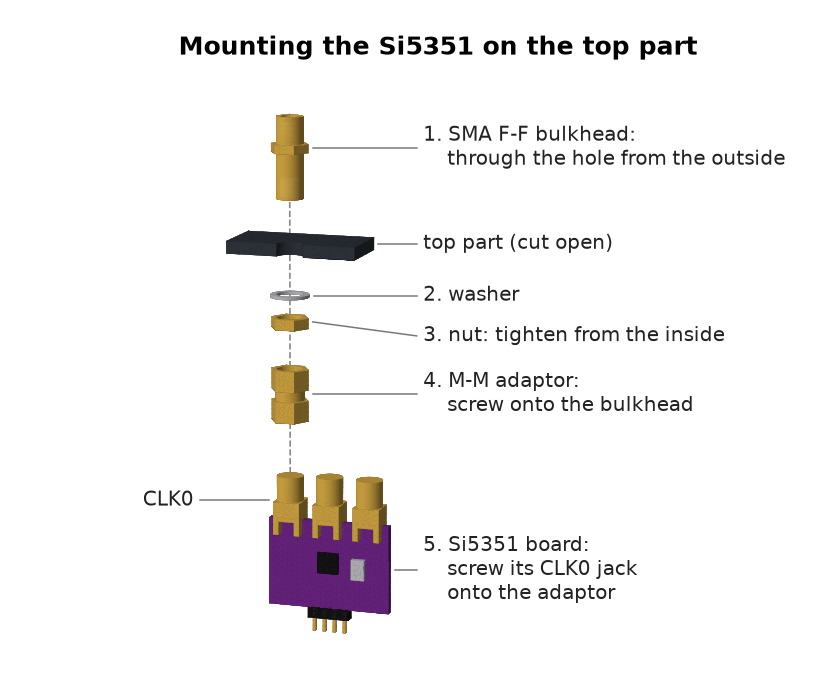
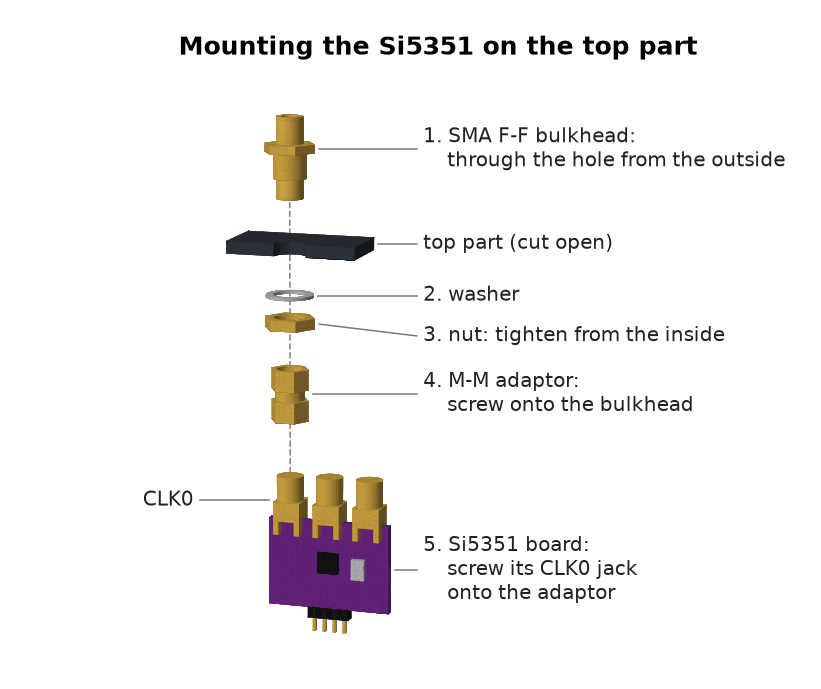
Case: D-shaped SMA hole with command-line options
- SMA bulkhead hole with two flats: 7.8 mm, 7.4 mm across the flats,
  plus 0.2 mm clearance (8.0 x 7.6 mm in the lid)
- --sma-d, --sma-flats, --sma-clear, --sma-angle and --only top to
  regenerate just the lid for another connector
- SMA mount view shows the thicker bulkhead body

diff --git a/case/qube_case.py b/case/qube_case.py
@@ -11,9 +11,14 @@ Generates the 3D-printable parts as STL files:
 
 Usage:
   pip install manifold3d numpy matplotlib
-  python3 qube_case.py            # write STLs
+  python3 qube_case.py            # write all STLs
   python3 qube_case.py --check    # also run a fit check against dummy boards
   python3 qube_case.py --preview  # also render preview PNGs to ../docs (incl. sma_mount.png)
+
+  # only the top part, for another SMA bulkhead connector (sizes in mm):
+  python3 qube_case.py --only top --sma-d 7.8 --sma-flats 7.4
+  python3 qube_case.py --only top --sma-d 6.35 --sma-flats 0     # round hole
+  python3 qube_case.py --help     # all options
 
 All dimensions are in mm. MEASURE YOUR BOARDS and adjust the parameters
 below before printing - board sizes differ between suppliers.
@@ -71,7 +76,12 @@ SMA_Y = S / 2           # the Si5351 stands parallel to the front wall, right be
 SI_SMA_PITCH = 10.0     # spacing of the 3 SMA connectors CLK0, CLK1, CLK2
 SI_CLK0_OFF = -SI_SMA_PITCH   # CLK0 position on the SMA edge, relative to the board centre (CLK0 at one end)
 SI_CHAIN = 26.0         # inner top surface -> Si5351 PCB edge (bulkhead + M-M adaptor + jack)
-SMA_HOLE_D = 6.6        # hole for the SMA F-F bulkhead (1/4"-36 thread = 6.35 mm)
+# SMA F-F bulkhead connector: measure the threaded part that goes through the top.
+# Many have two flat sides (a "D" or double-D shape) that stop them from turning.
+SMA_HOLE_D = 7.8        # diameter of the threaded part
+SMA_HOLE_FLATS = 7.4    # distance between the two flat sides, 0 = round, no flats
+SMA_HOLE_CLEAR = 0.2    # extra clearance on both sizes (printed holes come out a bit small)
+SMA_HOLE_ANGLE = 0.0    # rotation of the flats in degrees (0 = flats parallel to the front)
 
 # ---- OLED display GM009605v4 (SSD1306 0.96") -----------------------------
 D_W = 27.3              # PCB width
@@ -351,6 +361,16 @@ def bottom_part():
     return m - union(cuts)
 
 
+def sma_hole():
+    """Hole for the SMA bulkhead: round, or round with two flat sides."""
+    d = SMA_HOLE_D + SMA_HOLE_CLEAR
+    hole = Manifold.cylinder(WALL + 2, d / 2, d / 2, 96)
+    if SMA_HOLE_FLATS > 0:
+        f = SMA_HOLE_FLATS + SMA_HOLE_CLEAR
+        hole = hole ^ box(-d, -f / 2, -1, d, f / 2, WALL + 3)
+    return hole.rotate((0, 0, SMA_HOLE_ANGLE)).translate((SMA_X, SMA_Y, IN1 - 1))
+
+
 def top_part():
     top = shell() ^ box(-1, -1, SPLIT, S + 1, S + 1, S + 1)
     pocket = box(IN0 - TONGUE_T - FIT, IN0 - TONGUE_T - FIT, SPLIT - 1,
@@ -371,7 +391,7 @@ def top_part():
         fingers.append(box(x0, B_PCB_Y0 + 0.1, zj, x1, IN1 + 0.01, IN1 + 0.01))
     top = top + union(fingers)
 
-    cuts = [cyl_z(SMA_X, SMA_Y, IN1 - 1, WALL + 2, SMA_HOLE_D / 2)]
+    cuts = [sma_hole()]
     # pry notch on the right side, to open the cube with a coin / screwdriver
     cuts.append(box(S - (IN0 - TONGUE_T - FIT) - 0.01, S / 2 - 6, SPLIT - 0.01, S + 1, S / 2 + 6, SPLIT + 1.5))
     cuts.append(engrave_top("RF", 6.0, SMA_X, SMA_Y - 11))
@@ -495,24 +515,61 @@ def fit_check(bottom, top, caps):
     return ok
 
 
+def parse_args():
+    import argparse
+    ap = argparse.ArgumentParser(description="Generate the QubeRG case STLs.")
+    ap.add_argument("--only", action="append", choices=["bottom", "top", "buttons"],
+                    help="only write this part (can be repeated); default: all parts")
+    ap.add_argument("--check", action="store_true", help="run the fit check against dummy boards")
+    ap.add_argument("--preview", action="store_true", help="render the preview images to ../docs")
+    ap.add_argument("--sma-d", type=float, help=f"SMA bulkhead thread diameter (default {SMA_HOLE_D})")
+    ap.add_argument("--sma-flats", type=float,
+                    help=f"distance between the flat sides, 0 = round hole (default {SMA_HOLE_FLATS})")
+    ap.add_argument("--sma-clear", type=float, help=f"extra clearance (default {SMA_HOLE_CLEAR})")
+    ap.add_argument("--sma-angle", type=float, help=f"rotation of the flats in degrees (default {SMA_HOLE_ANGLE})")
+    return ap.parse_args()
+
+
 def main():
+    global SMA_HOLE_D, SMA_HOLE_FLATS, SMA_HOLE_CLEAR, SMA_HOLE_ANGLE
+    args = parse_args()
+    if args.sma_d is not None:
+        SMA_HOLE_D = args.sma_d
+    if args.sma_flats is not None:
+        SMA_HOLE_FLATS = args.sma_flats
+    if args.sma_clear is not None:
+        SMA_HOLE_CLEAR = args.sma_clear
+    if args.sma_angle is not None:
+        SMA_HOLE_ANGLE = args.sma_angle
+    if SMA_HOLE_FLATS >= SMA_HOLE_D:
+        SMA_HOLE_FLATS = 0          # flats wider than the hole: just a round hole
+
     here = os.path.dirname(os.path.abspath(__file__))
     out = os.path.join(here, "stl")
     os.makedirs(out, exist_ok=True)
+    only = set(args.only or ["bottom", "top", "buttons"])
+    need_all = args.check or args.preview
 
-    bottom = bottom_part()
-    top = top_part()
-    caps_asm = button_caps_assembled()
+    flats = f", flats {SMA_HOLE_FLATS} mm" if SMA_HOLE_FLATS > 0 else " (round)"
+    print(f"SMA hole: {SMA_HOLE_D} mm{flats}, clearance {SMA_HOLE_CLEAR} mm, angle {SMA_HOLE_ANGLE} deg")
 
-    write_stl(on_bed(bottom), os.path.join(out, "qube_bottom.stl"), "QubeRG bottom")
-    write_stl(on_bed(top.rotate((180, 0, 0))), os.path.join(out, "qube_top.stl"), "QubeRG top")
-    write_stl(on_bed(button_caps_print()), os.path.join(out, "qube_buttons.stl"), "QubeRG button caps")
-    for n, m in (("bottom", bottom), ("top", top)):
-        print(f"{n}: volume {m.volume() / 1000:.1f} cm^3, {m.num_tri()} triangles, genus {m.genus()}")
+    bottom = bottom_part() if ("bottom" in only or need_all) else None
+    top = top_part() if ("top" in only or need_all) else None
+    caps_asm = button_caps_assembled() if need_all else None
 
-    if "--check" in sys.argv:
+    if "bottom" in only:
+        write_stl(on_bed(bottom), os.path.join(out, "qube_bottom.stl"), "QubeRG bottom")
+        print(f"written stl/qube_bottom.stl: {bottom.volume() / 1000:.1f} cm^3, genus {bottom.genus()}")
+    if "top" in only:
+        write_stl(on_bed(top.rotate((180, 0, 0))), os.path.join(out, "qube_top.stl"), "QubeRG top")
+        print(f"written stl/qube_top.stl: {top.volume() / 1000:.1f} cm^3, genus {top.genus()}")
+    if "buttons" in only:
+        write_stl(on_bed(button_caps_print()), os.path.join(out, "qube_buttons.stl"), "QubeRG button caps")
+        print("written stl/qube_buttons.stl")
+
+    if args.check:
         fit_check(bottom, top, caps_asm)
-    if "--preview" in sys.argv:
+    if args.preview:
         import qube_preview
         qube_preview.render(bottom, top, caps_asm, dummies(), os.path.join(here, "..", "docs"))
         import qube_sma_view

diff --git a/case/qube_sma_view.py b/case/qube_sma_view.py
@@ -49,14 +49,17 @@ def parts():
     top_out = qc.S
     p = []
     # --- SMA F-F bulkhead: flange on the outside, nut + washer on the inside
-    p.append(("bulkhead", hex_z(top_out, 2.0), GOLD))
+    rp = qc.SMA_HOLE_D / 2                      # thread through the top (measured)
+    rhex = (qc.SMA_HOLE_D + 3.0) / 2 / 0.866       # flange and nut, across flats = thread + 3 mm
+    p.append(("bulkhead", hex_z(top_out, 2.0, rhex), GOLD))
     b, d, pin = female_end(top_out + 2.0, 6.5, up=True)
     p += [("bulkhead", b, GOLD), ("bulkhead", d, WHITE), ("bulkhead", pin, GOLD)]
-    p.append(("bulkhead", cyl_z(X, Y, 79.0, top_out - 79.0 + 0.01, R_THREAD), GOLD))
+    p.append(("bulkhead", cyl_z(X, Y, top_in - 3.2, top_out - top_in + 3.21, rp), GOLD))
+    p.append(("bulkhead", cyl_z(X, Y, 79.0, top_in - 3.2 - 79.0 + 0.01, R_THREAD), GOLD))
     b, d, pin = female_end(79.0 - 0.01, 3.0, up=False)
     p += [("bulkhead", d, WHITE)]
-    p.append(("washer", cyl_z(X, Y, top_in - 0.6, 0.6, 4.6) - cyl_z(X, Y, top_in - 1, 2, 3.3), NICKEL))
-    p.append(("nut", hex_z(top_in - 3.1, 2.5) - cyl_z(X, Y, top_in - 4, 4, R_THREAD), GOLD))
+    p.append(("washer", cyl_z(X, Y, top_in - 0.6, 0.6, rp + 1.8) - cyl_z(X, Y, top_in - 1, 2, rp + 0.1), NICKEL))
+    p.append(("nut", hex_z(top_in - 3.1, 2.5, rhex) - cyl_z(X, Y, top_in - 4, 4, rp), GOLD))
     # --- M-M adaptor: two coupling nuts and a body
     a_top = 83.9
     p.append(("adaptor", hex_z(a_top - 5.0, 5.0) - cyl_z(X, Y, a_top - 4.6, 5, R_THREAD), GOLD))

diff --git a/PROMPT.md b/PROMPT.md
@@ -195,6 +195,14 @@ This project was generated with the help of an AI model.
 
 > Keep the exploded view, but remove the assembled view.
 
+### Follow-up 35
+
+> The whole in the lid for the SMA thruhole connector must be changed. It has a diameter of 7.9 mm. It has two flat sides, the distance between them is 7.5mm. These connectors come in different shapes and sizes, so maybe it's better you can change the script to generate it so you can simply regenerate the lid stl.
+
+### Follow-up 36
+
+> Since you already add clearance, fix the current sizes of the sma hole in the lid to 7.8mm diameter and 7.4mm between the flat sides.
+
 ## Design decisions made by the AI
 
 - I2C bus shared by Si5351 (0x60) and OLED (SSD1306, 0x3C) on GPIO21 (SDA) / GPIO22 (SCL).
@@ -225,4 +233,5 @@ This project was generated with the help of an AI model.
 - Beacon: callsign in morse at 12 WPM (100 ms dot), word gap, 60 s carrier, word gap, repeat. Mode order CW, CW-keyed, FSK, Beacon, OFF; Beacon is skipped while CALLSIGN is "N0CALL".
 - Screen diagram (`docs/screens.png`): the firmware runs on the PC with stand-in hardware and the real Adafruit GFX 5x7 font, so the screenshots match the real display (`tools/screenflow/`).
 - SMA mount view (`docs/sma_mount.png`, `case/qube_sma_view.py`): exploded view only, labels placed automatically in a column beside the parts so text and leader lines never overlap; connector sizes are typical values. CLK0 is the jack at one end of the Si5351 board (10 mm pitch), so the board hangs off-centre under the SMA; the fit check passes with CLK0 at either end.
+- SMA hole: round with two flats (7.8 mm, 7.4 mm across the flats) + 0.2 mm clearance, so 8.0 x 7.6 mm, flats parallel to the front. Settings SMA_HOLE_D / _FLATS / _CLEAR / _ANGLE, also as command-line options (`--sma-d`, `--sma-flats`, `--sma-clear`, `--sma-angle`), with `--only top` to regenerate just the lid.
 - Libraries: Etherkit Si5351, Adafruit SSD1306, Adafruit GFX.

diff --git a/README.md b/README.md
@@ -143,6 +143,21 @@ pip install manifold3d numpy matplotlib
 cd case && python3 qube_case.py --check --preview
 ```
 
+**SMA hole in the top:** SMA bulkhead connectors come in different sizes, and
+many have two flat sides so they can't turn. The hole is made for a connector
+of 7.8 mm diameter with 7.4 mm across the flats, plus 0.2 mm clearance
+(so the hole is 8.0 × 7.6 mm). For another connector, measure it and
+regenerate only the top part:
+
+```bash
+cd case && python3 qube_case.py --only top --sma-d 7.8 --sma-flats 7.4
+```
+
+Use `--sma-flats 0` for a round hole, `--sma-clear` for more or less
+clearance, and `--sma-angle` to rotate the flats. The defaults are at the top
+of `case/qube_case.py` (`SMA_HOLE_D`, `SMA_HOLE_FLATS`, `SMA_HOLE_CLEAR`,
+`SMA_HOLE_ANGLE`).
+
 ## Build & upload
 
 Open the `QubeRG` folder in VS Code with the PlatformIO extension, then
